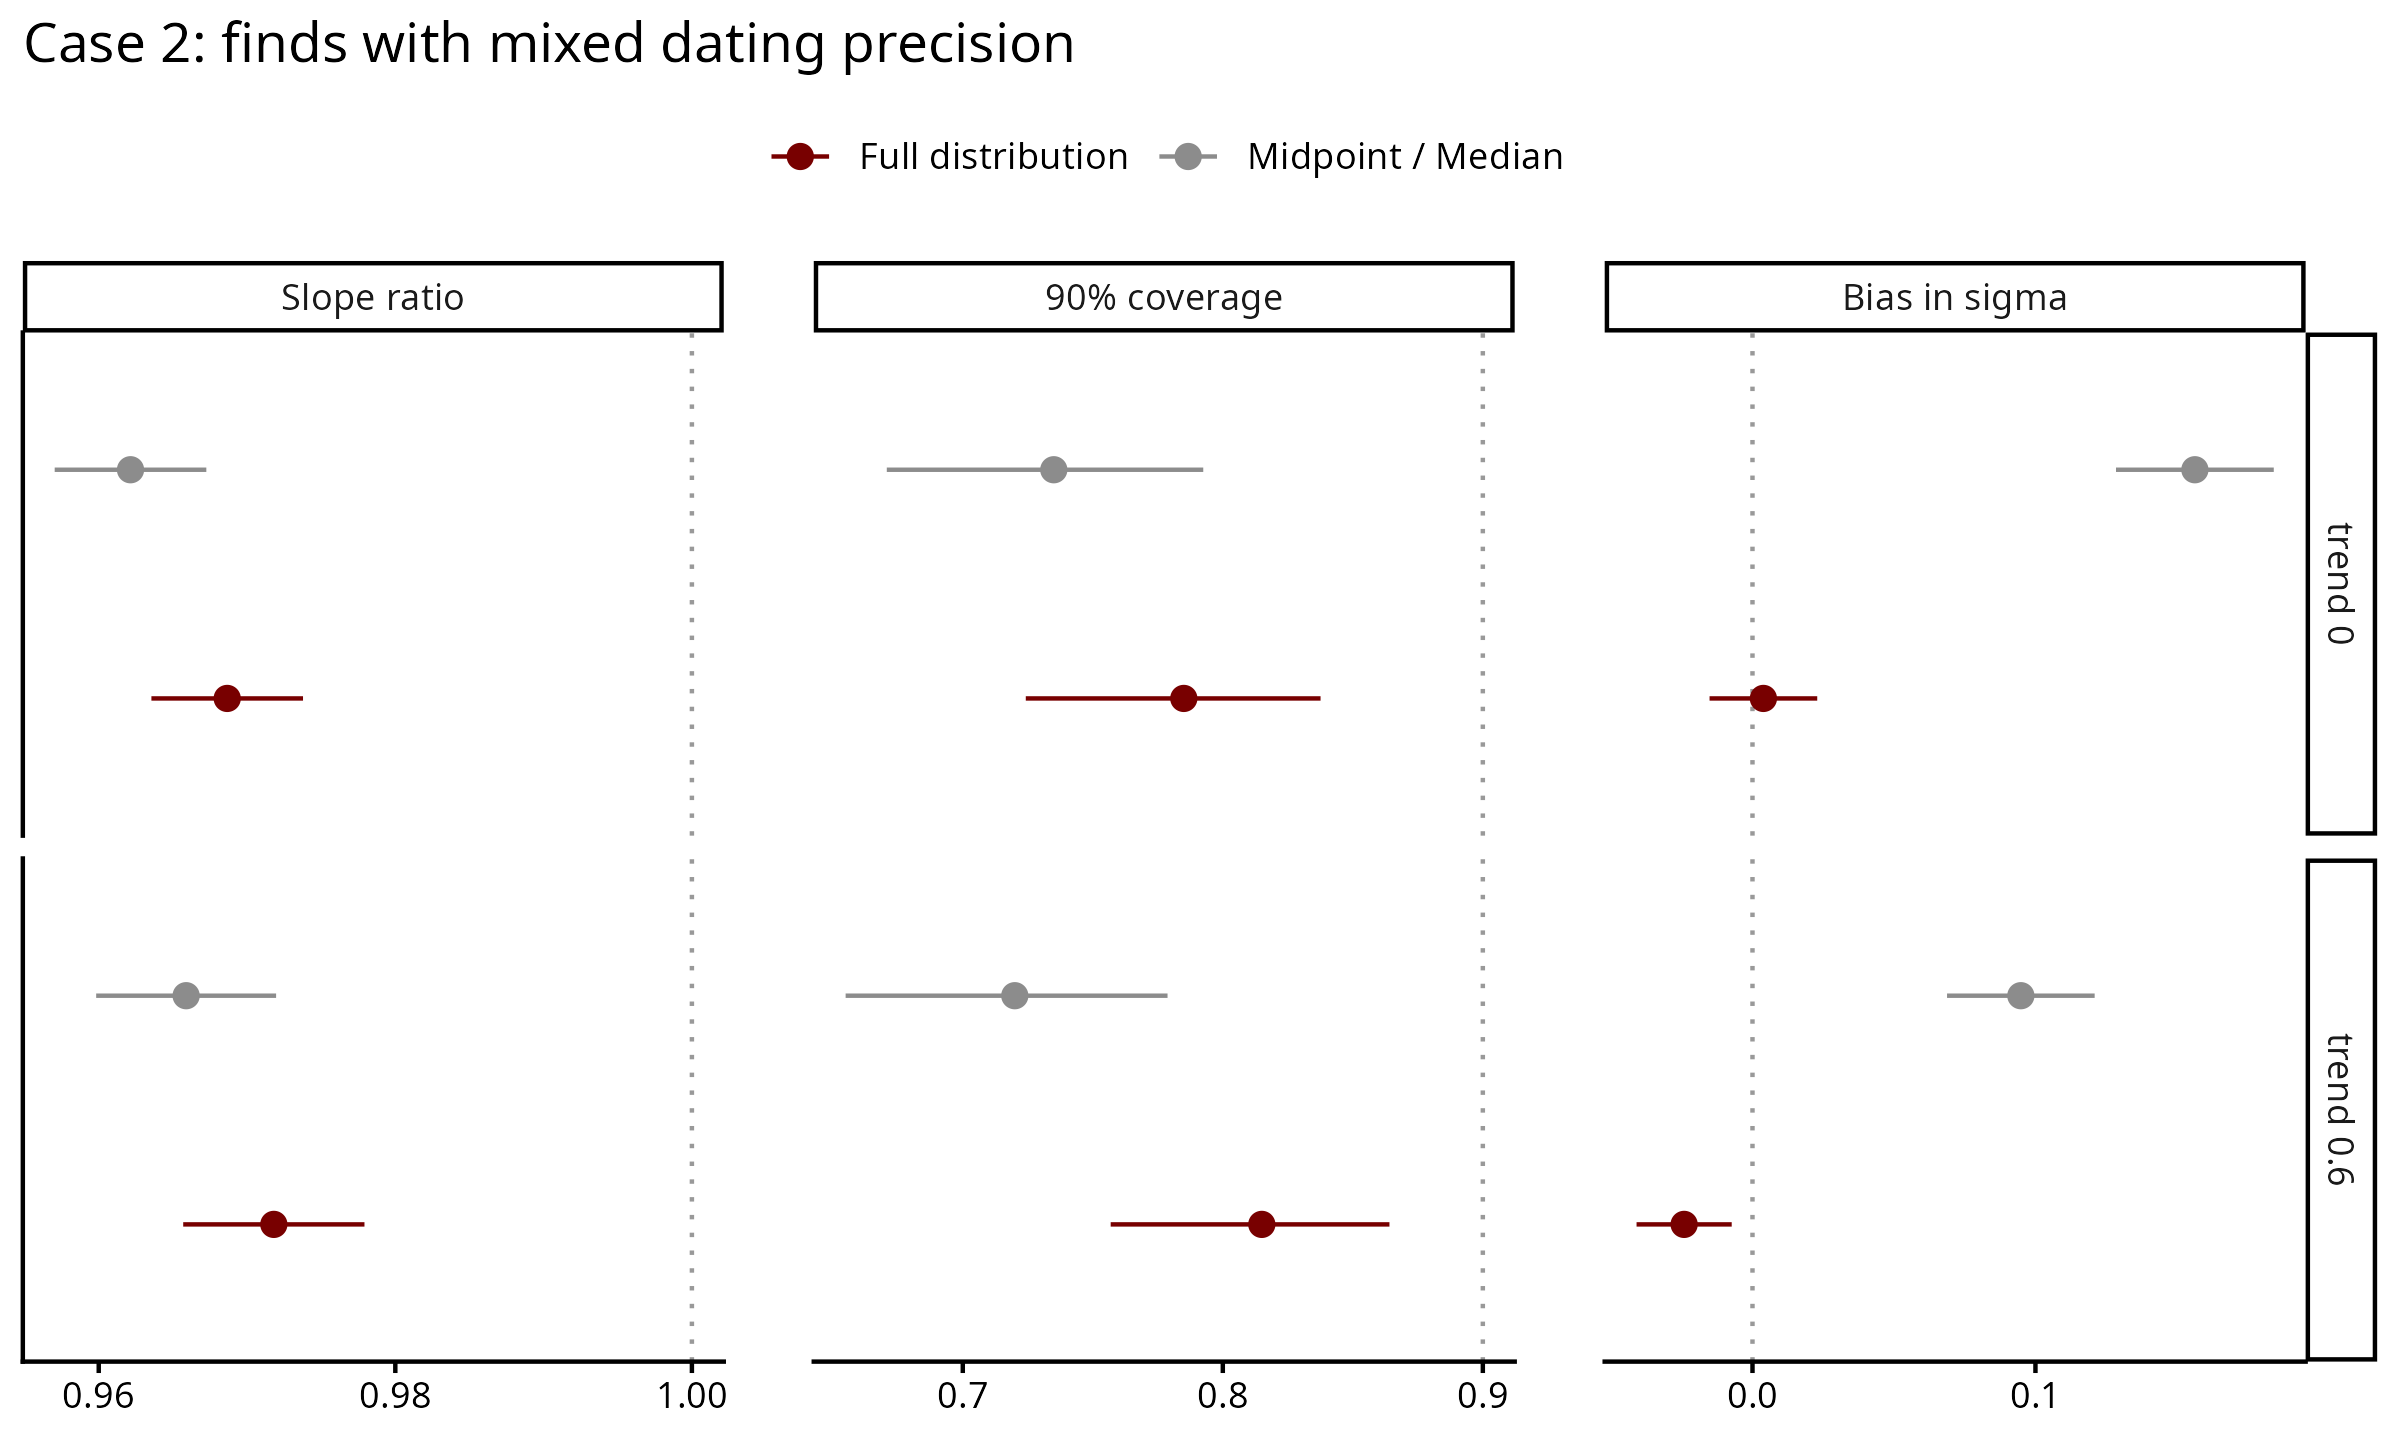
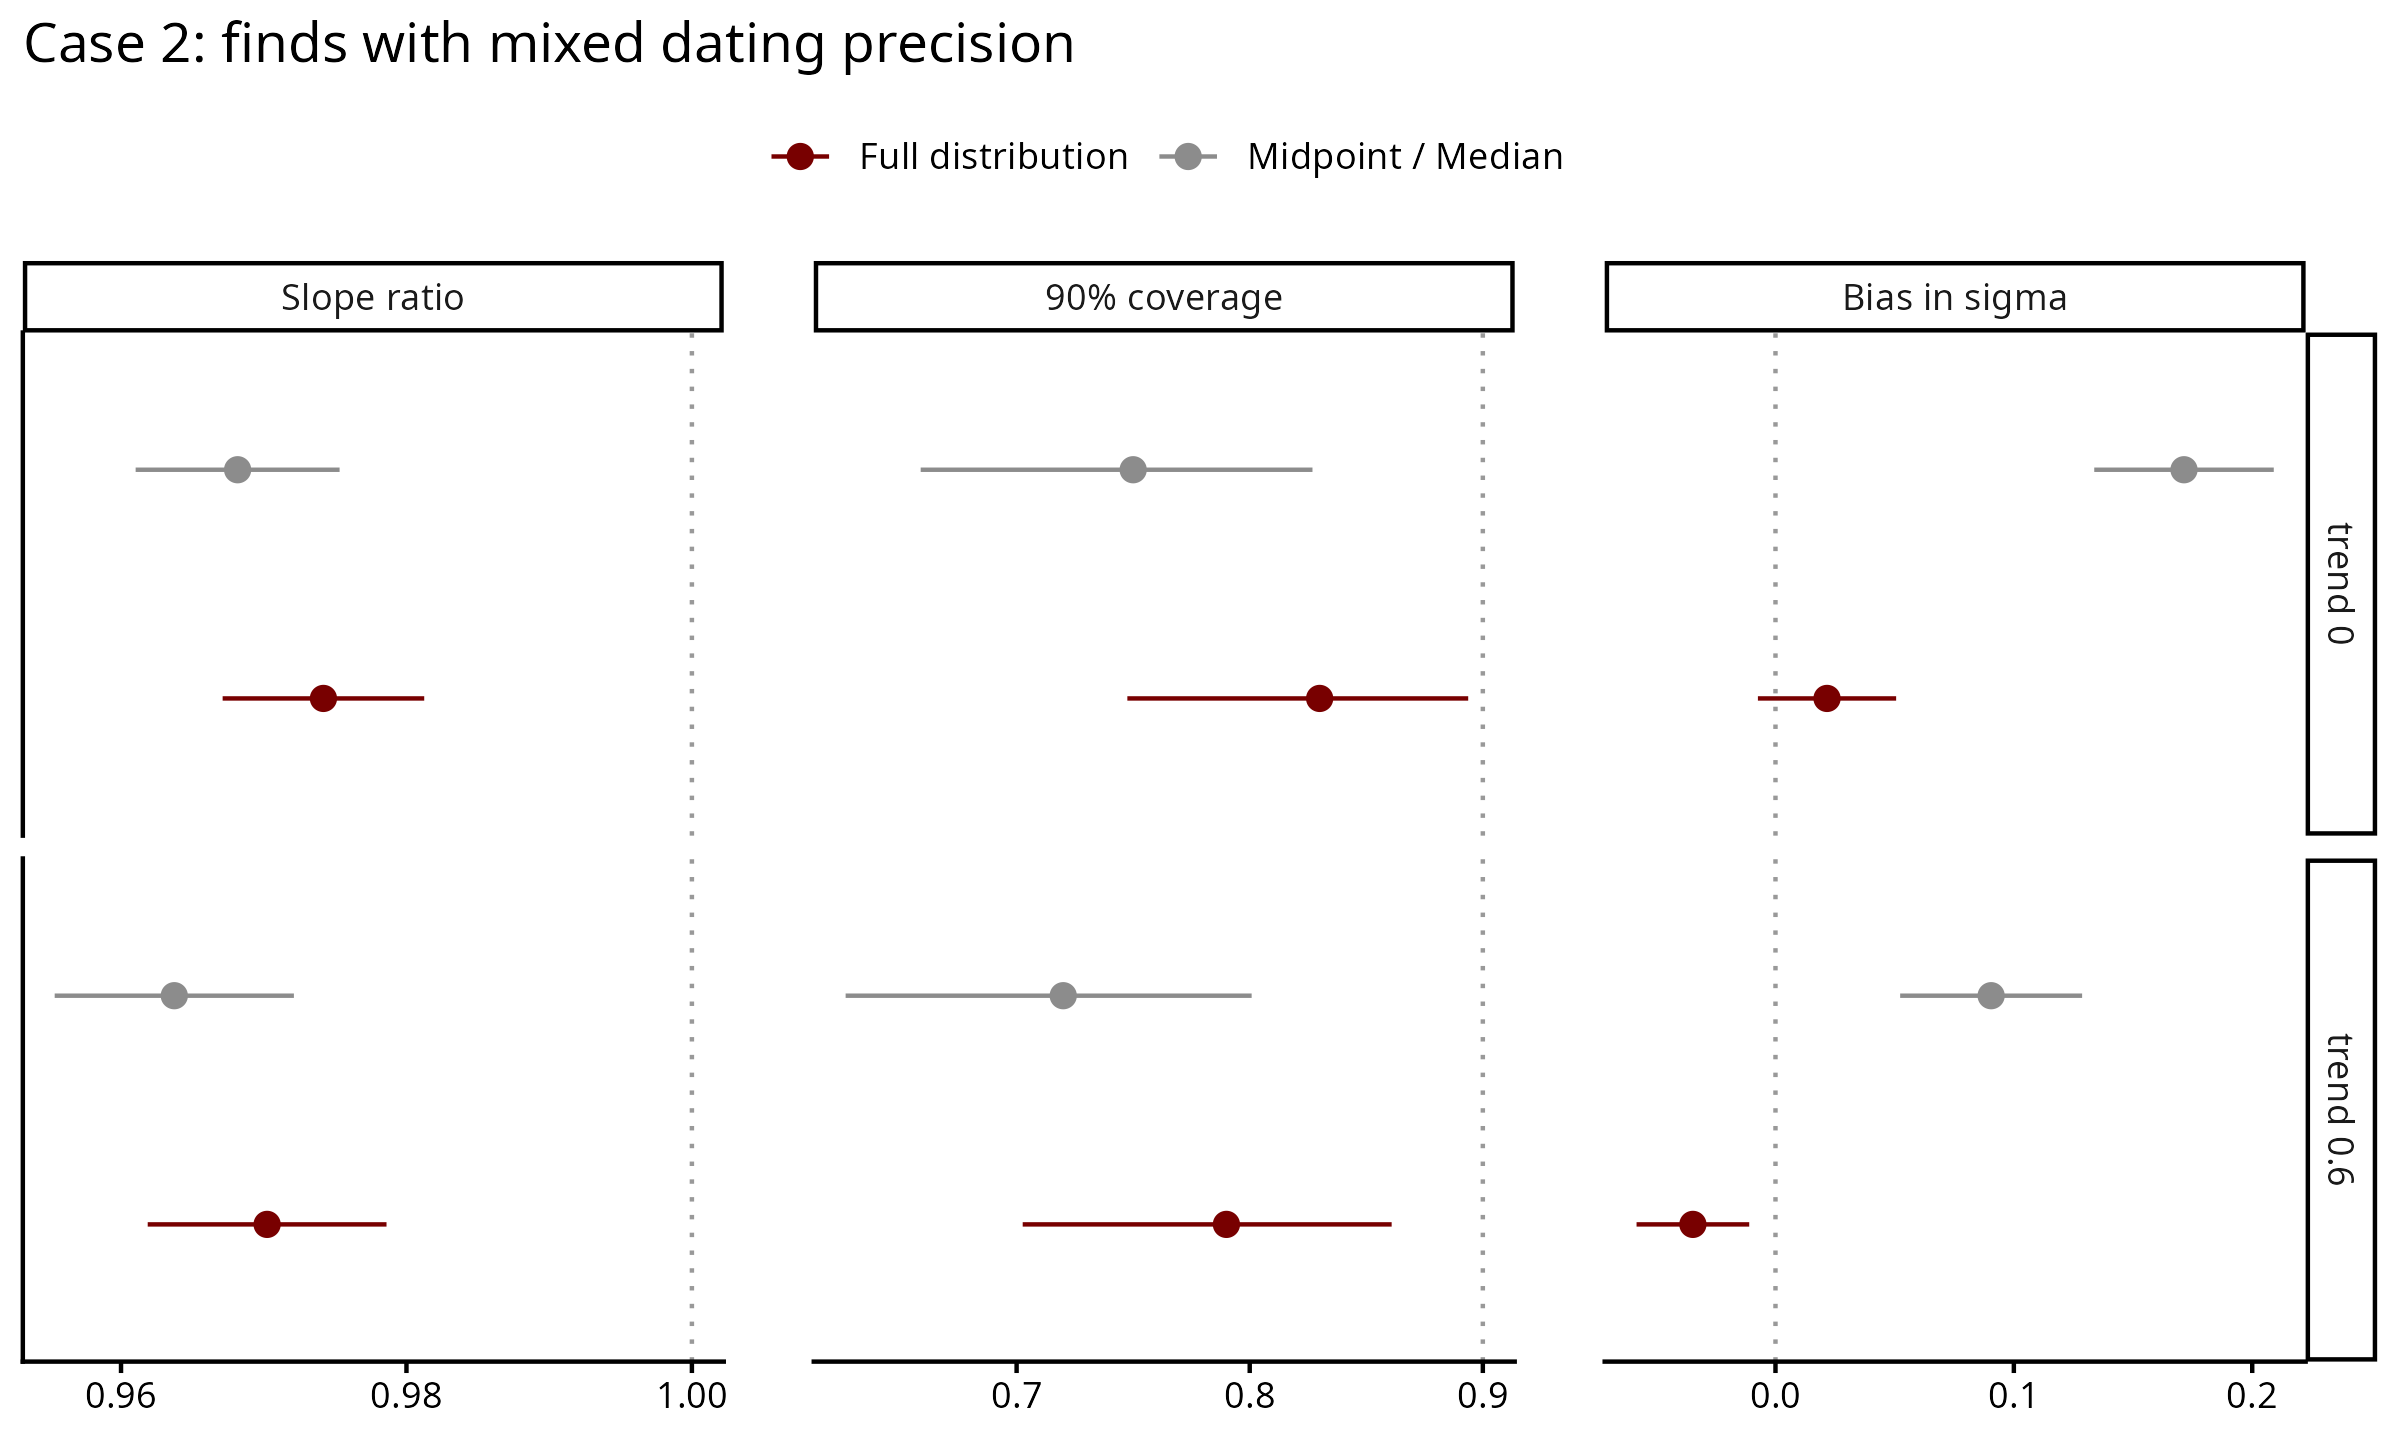
Subsetted simulations to have matching number

diff --git a/RESULTS.md b/RESULTS.md
@@ -72,7 +72,7 @@ Value = intercept + slope × date. σ in units of the measured value (true σ 0.
 |---|---|---|
 | 1, steep section | midpoint 0.80 / 0.44 / +0.14; median 0.82 / 0.47 / +0.14 | 0.83 / 0.49 / +0.01 |
 | 1, Hallstatt plateau | midpoint 1.11 / 0.79 / +0.45; median 0.82 / 0.64 / +0.41 | 0.96 / 0.83 / −0.02 |
-| 2, typochronology | 0.965 / 0.77 / +0.13 | 0.97 / 0.81 / −0.01 |
+| 2, typochronology | 0.97 / 0.78 / +0.13 | 0.97 / 0.83 / −0.01 |
 | 3, overlapping phases | 1.00 / 0.87 / +0.41 | 0.97 / 0.76 / −0.16 |
 | 4, merged phases | 1.03 / 0.85 / +0.60 | 1.01 / 0.85 / −0.07 |
 

diff --git a/Simulations/time_as_predictor/Case2_Typochronology/README.md b/Simulations/time_as_predictor/Case2_Typochronology/README.md
@@ -69,6 +69,8 @@ setting, 3200 in total:
 
 0% and 100% coarsely dated are reference points, not "realistic" datasets.
 
+The run has 200 datasets per setting (3200 in total), while the other cases have 100. Results and figures use replicates 1 to 100 of each setting, to match them. On all 200 the headline numbers are nearly the same (slope ratio 0.965 midpoint, 0.971 full distribution; coverage 0.77 and 0.81).
+
 ## Feeding the models
 
 Both fits use the same model (`shared/models/linear_dates.stan`) and see each find's range and measured value, not the true date.
